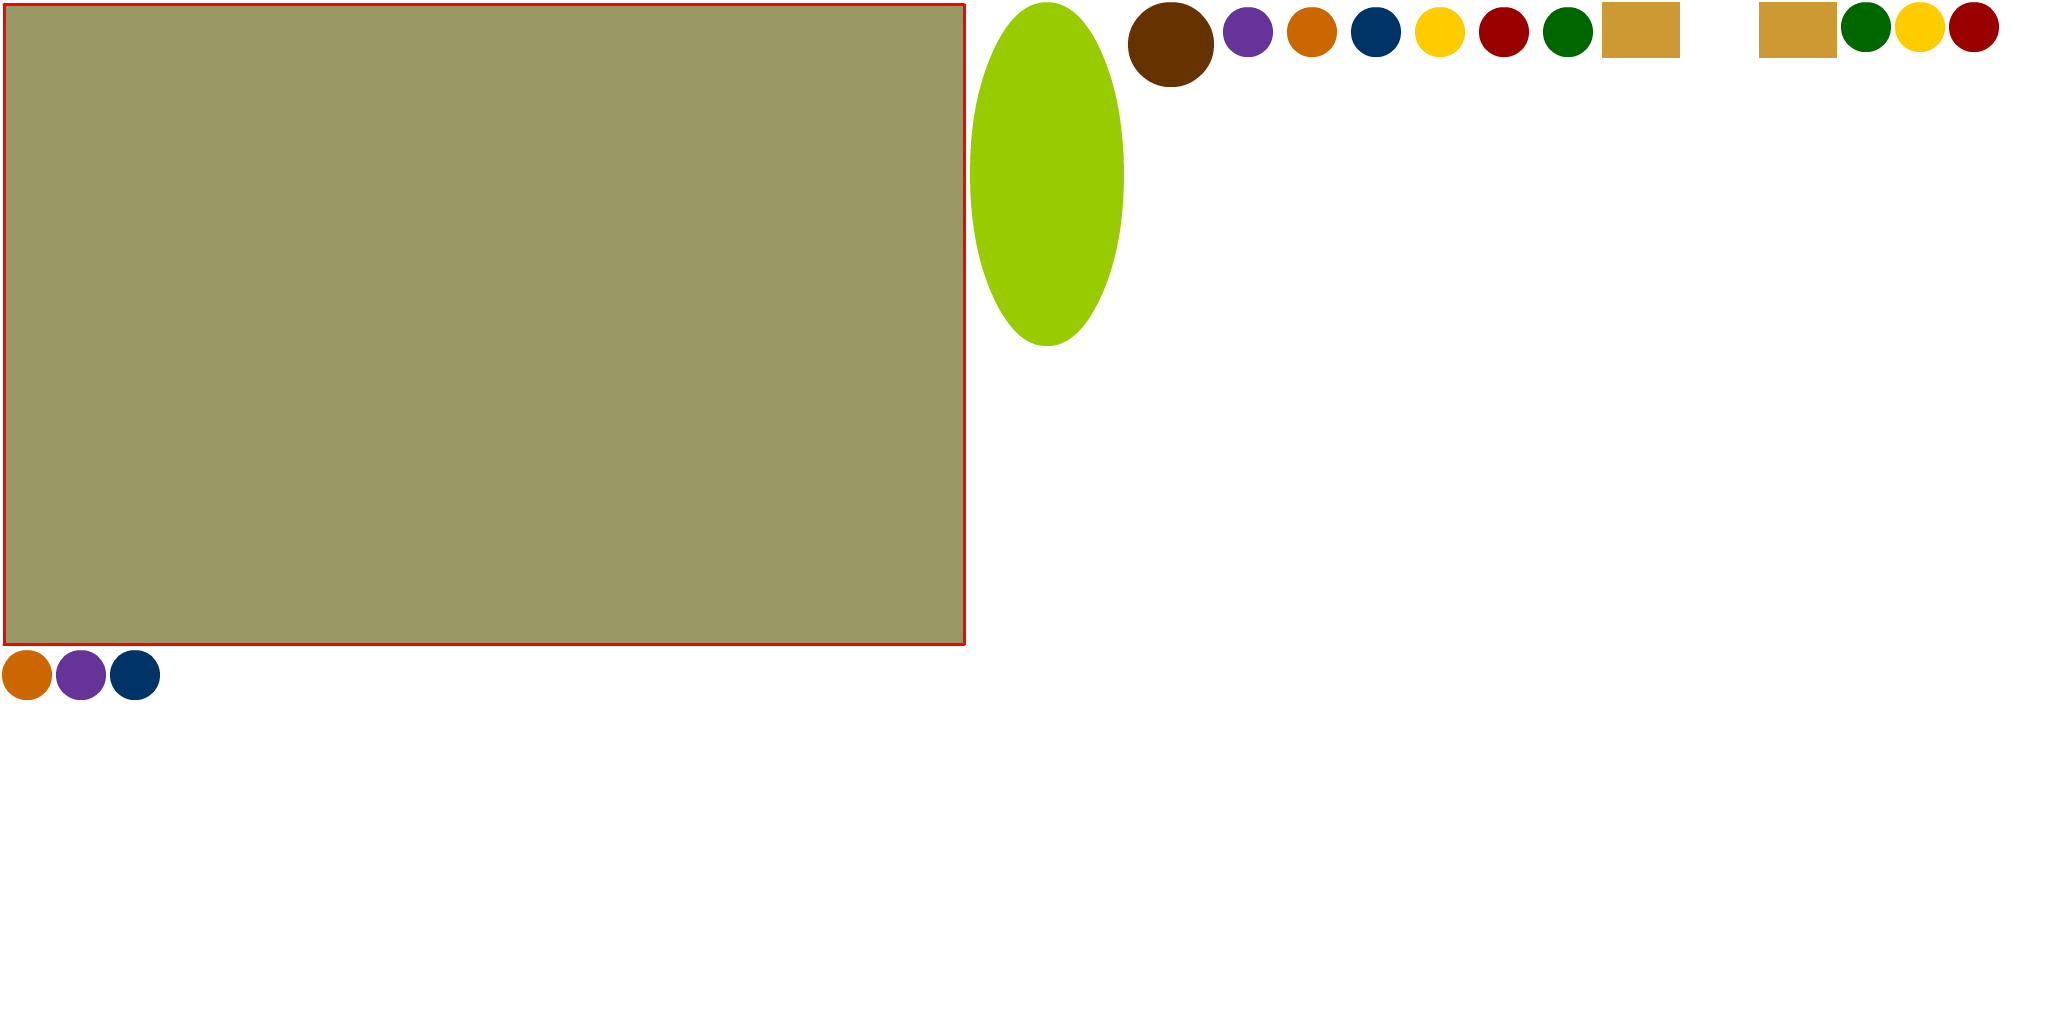
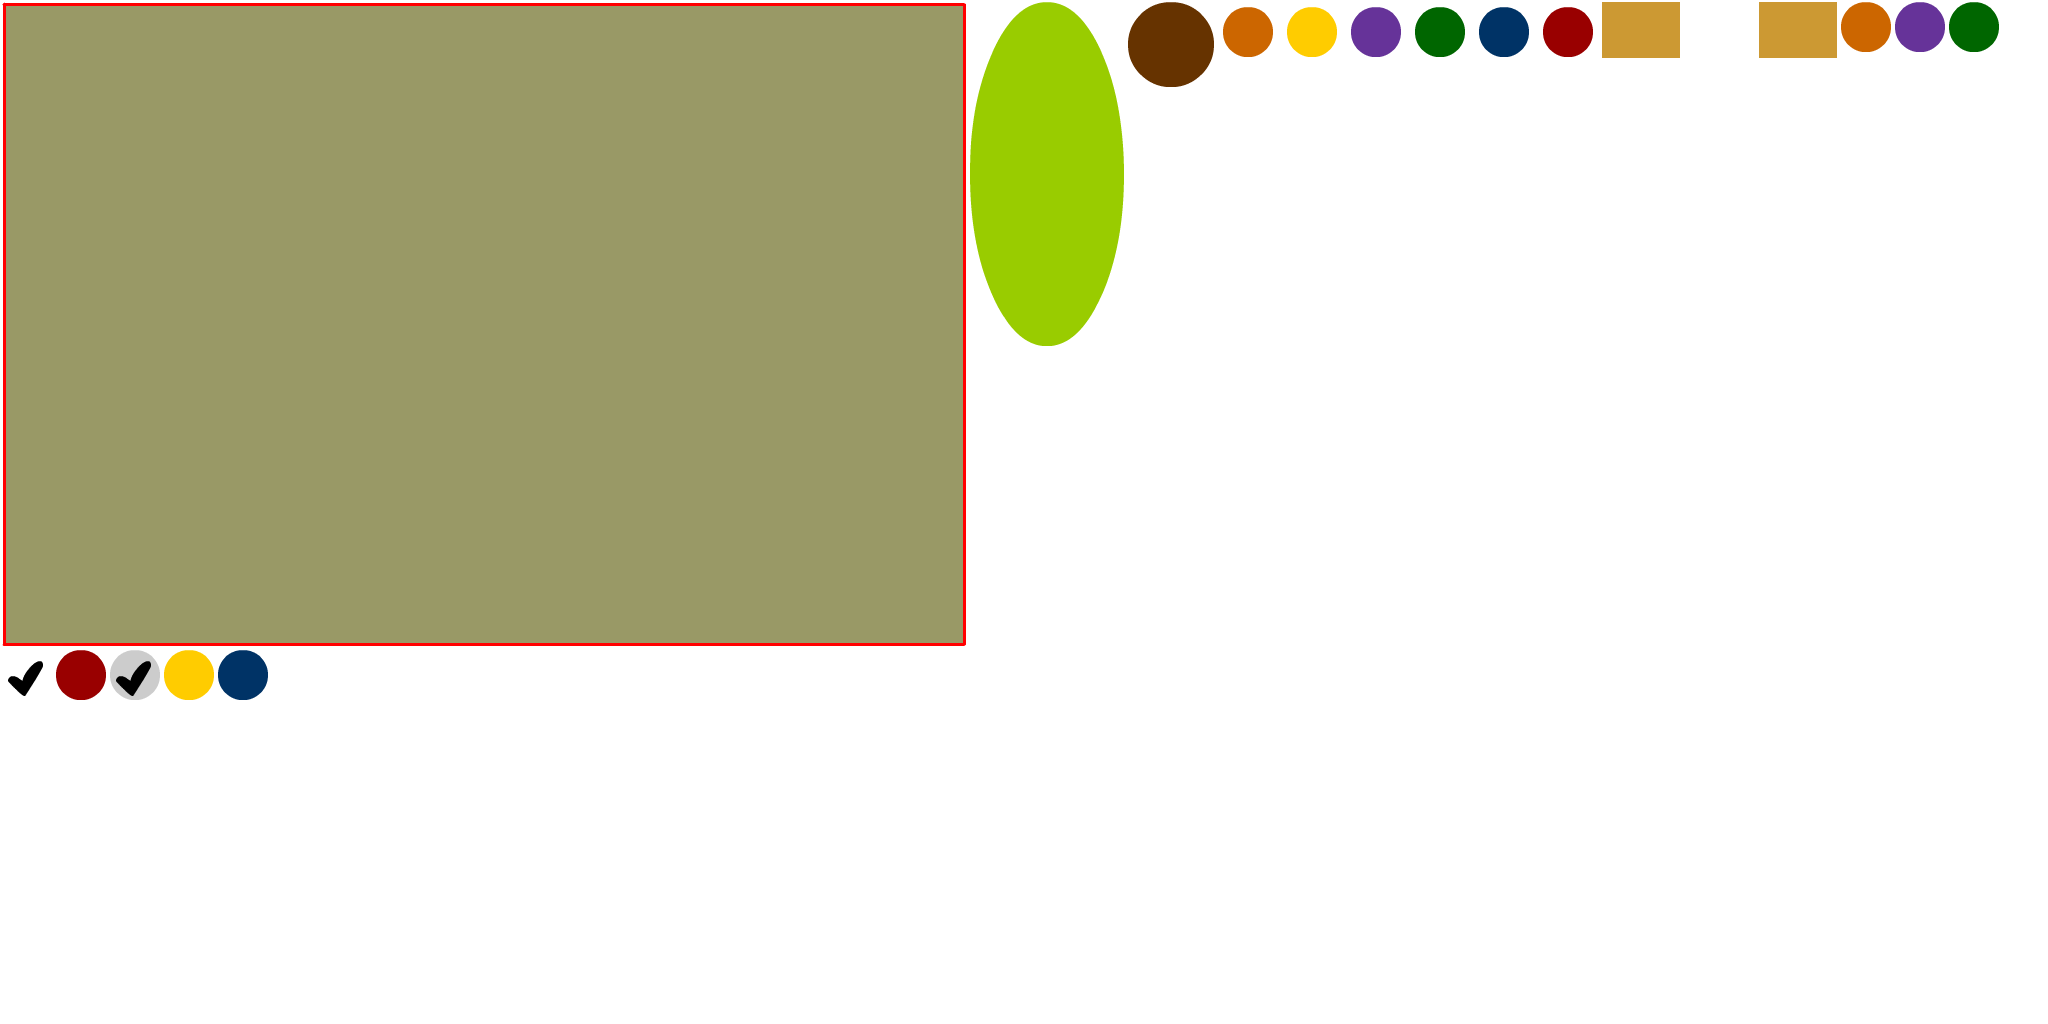
Data structure to hold spaceship parts and beginning parts colored in turn

Changed region(s): [[0.5938, 0.0, 0.7812, 0.0625], [0.0, 0.625, 0.1562, 0.6875], [0.875, 0.0, 1.0, 0.0625]]

diff --git a/AssemblyStage.js b/AssemblyStage.js
@@ -1,7 +1,7 @@
 var AssemblyStage = function(assetManager, root) {
 
-    // the current part being colored
-    var currentPart = null;
+    // event to be dispatched when this stage is complete
+    //var completeEvent = new createjs.Event("onChooseComplete", true);
 
     // size of brush for coloring spaceship
     var brushSize = 30;
@@ -11,9 +11,6 @@ var AssemblyStage = function(assetManager, root) {
     var curPoint = new createjs.Point();
     // the x,y position of the last touch on the screen
     var lastPoint = new createjs.Point();
-
-    // event to be dispatched when this stage is complete
-    //var completeEvent = new createjs.Event("onChooseComplete", true);
 
     // master container for this stage's screen
     var screen = new createjs.Container();
@@ -26,38 +23,44 @@ var AssemblyStage = function(assetManager, root) {
     // container to contain whole spaceship (coloring and all)
     var spaceShip = new createjs.Container();
 
-    // setup body spaceship part
-    // shape for coloring on - cache for fast rendering
-    var coloringCanvas = new createjs.Shape();
-    // sprite of spaceship part we color
-    var part1 = assetManager.getSprite("assets");
-    part1.gotoAndStop("body");
-    part1.x = 50;
-    part1.y = 30;
-
-    var part2 = assetManager.getSprite("assets");
-    part2.gotoAndStop("wings");
-    part2.x = 10;
-    part2.y = 200;
-
-    var part3 = assetManager.getSprite("assets");
-    part3.gotoAndStop("tail");
-    part3.x = 10;
-    part3.y = 300;
-
-
-    spaceShip.addChild(coloringCanvas);
-    spaceShip.addChild(part1);
-    //spaceShip.addChild(part2);
-    //spaceShip.addChild(part3);
-
+    // setup spaceship part with shape for coloring and sprite for coloring on
+    var part1 = {};
+    part1.colorCanvas = new createjs.Shape();
+    part1.sprite = assetManager.getSprite("assets");
+    part1.sprite.gotoAndStop("body");
+    part1.sprite.x = 50;
+    part1.sprite.y = 30;
     // setting composite so we can ONLY color current spaceship part
-    // http://community.createjs.com/discussions/easeljs/494-composite-operation-on-one-layer-knopckout-mask-as-example
-    part1.compositeOperation = "destination-atop";
+    part1.sprite.compositeOperation = "destination-atop";
+
+    var part2 = {};
+    part2.colorCanvas = new createjs.Shape();
+    part2.sprite = assetManager.getSprite("assets");
+    part2.sprite.gotoAndStop("wings");
+    part2.sprite.x = 10;
+    part2.sprite.y = 200;
+    //part2.sprite.compositeOperation = "destination-atop";
+
+    var part3 = {};
+    part3.colorCanvas = new createjs.Shape();
+    part3.sprite = assetManager.getSprite("assets");
+    part3.sprite.gotoAndStop("tail");
+    part3.sprite.x = 10;
+    part3.sprite.y = 300;
+    //part3.sprite.compositeOperation = "destination-atop";
+
+    spaceShip.addChild(part1.colorCanvas);
+    spaceShip.addChild(part1.sprite);
+    spaceShip.addChild(part2.colorCanvas);
+    spaceShip.addChild(part2.sprite);
+    spaceShip.addChild(part3.colorCanvas);
+    spaceShip.addChild(part3.sprite);
 
     // !!!!!!!!!!!!!!!!!!! change caching to only be the size of the spaceship
     // cache coloring container and master container
-    coloringCanvas.cache(0, 0, canvas.width / scaleRatio, canvas.height / scaleRatio);
+    part1.colorCanvas.cache(0, 0, canvas.width / scaleRatio, canvas.height / scaleRatio);
+    part2.colorCanvas.cache(0, 0, canvas.width / scaleRatio, canvas.height / scaleRatio);
+    part3.colorCanvas.cache(0, 0, canvas.width / scaleRatio, canvas.height / scaleRatio);
     spaceShip.cache(0, 0, canvas.width / scaleRatio, canvas.height / scaleRatio);
     // add to screen
     screen.addChild(spaceShip);
@@ -67,70 +70,77 @@ var AssemblyStage = function(assetManager, root) {
     screen.addChild(spriteContainer);
     */
 
+    // parts queue
+    var partsQueue = [part1, part2, part3];
+    // the current part being colored
+    var currentPart = part1;
+
 
 
 
     // setup paint selection buttons
     var btnRed = assetManager.getSprite("assets");
-    btnRed.gotoAndStop("redPaint");
-    btnRed.x = 300;
+    btnRed.gotoAndStop("btnRedDown");
+    btnRed.x = 400;
     btnRed.y = 50;
     btnRed.color = "#990000";
-    btnRed.upframe = btnRed.currentFrame;
-    btnRed.overframe = btnRed.currentFrame + 1;
-    btnRed.gotoAndStop(btnRed.overframe);
+    btnRed.label = "btnRed";
     btnRed.addEventListener("click", onChangeColor);
     screen.addChild(btnRed);
 
     var btnGreen = assetManager.getSprite("assets");
-    btnGreen.gotoAndStop("greenPaint");
-    btnGreen.x = 300;
+    btnGreen.gotoAndStop("btnGreenUp");
+    btnGreen.x = 400;
     btnGreen.y = 110;
     btnGreen.color = "#006600";
-    btnGreen.upframe = btnGreen.currentFrame;
-    btnGreen.overframe = btnGreen.currentFrame + 1;
+    btnGreen.label = "btnGreen";
     btnGreen.addEventListener("click", onChangeColor);
     screen.addChild(btnGreen);
 
     var btnYellow = assetManager.getSprite("assets");
-    btnYellow.gotoAndStop("yellowPaint");
-    btnYellow.x = 300;
+    btnYellow.gotoAndStop("btnYellowUp");
+    btnYellow.x = 400;
     btnYellow.y = 170;
     btnYellow.color = "#FFCC00";
-    btnYellow.upframe = btnYellow.currentFrame;
-    btnYellow.overframe = btnYellow.currentFrame + 1;
+    btnYellow.label = "btnYellow";
     btnYellow.addEventListener("click", onChangeColor);
     screen.addChild(btnYellow);
 
     var btnBlue = assetManager.getSprite("assets");
-    btnBlue.gotoAndStop("bluePaint");
-    btnBlue.x = 300;
+    btnBlue.gotoAndStop("btnBlueUp");
+    btnBlue.x = 400;
     btnBlue.y = 230;
     btnBlue.color = "#003366";
-    btnBlue.upframe = btnBlue.currentFrame;
-    btnBlue.overframe = btnBlue.currentFrame + 1;
+    btnBlue.label = "btnBlue";
     btnBlue.addEventListener("click", onChangeColor);
     screen.addChild(btnBlue);
 
     var btnPurple = assetManager.getSprite("assets");
-    btnPurple.gotoAndStop("purplePaint");
-    btnPurple.x = 300;
+    btnPurple.gotoAndStop("btnPurpleUp");
+    btnPurple.x = 400;
     btnPurple.y = 290;
     btnPurple.color = "#663399";
-    btnPurple.upframe = btnPurple.currentFrame;
-    btnPurple.overframe = btnPurple.currentFrame + 1;
+    btnPurple.label = "btnPurple";
     btnPurple.addEventListener("click", onChangeColor);
     screen.addChild(btnPurple);
 
     var btnOrange = assetManager.getSprite("assets");
-    btnOrange.gotoAndStop("orangePaint");
-    btnOrange.x = 300;
+    btnOrange.gotoAndStop("btnOrangeUp");
+    btnOrange.x = 400;
     btnOrange.y = 350;
     btnOrange.color = "#CC6600";
-    btnOrange.upframe = btnOrange.currentFrame;
-    btnOrange.overframe = btnOrange.currentFrame + 1;
+    btnOrange.label = "btnOrange";
     btnOrange.addEventListener("click", onChangeColor);
     screen.addChild(btnOrange);
+
+    // add ok button
+    var btnFinished = assetManager.getSprite("assets");
+    btnFinished.gotoAndStop("btnOkUp");
+    btnFinished.x = 400;
+    btnFinished.y = 420;
+    btnFinished.addEventListener("mousedown", onFinished);
+    btnFinished.addEventListener("click", onFinished);
+    screen.addChild(btnFinished);
 
 
 
@@ -168,18 +178,18 @@ var AssemblyStage = function(assetManager, root) {
         */
 
         // draw line onto colorLayer
-        coloringCanvas.graphics.setStrokeStyle(brushSize, "round", "round");
-        coloringCanvas.graphics.beginStroke(brushColor);
-        coloringCanvas.graphics.moveTo(lastPoint.x, lastPoint.y);
-        coloringCanvas.graphics.lineTo(curPoint.x, curPoint.y);
+        currentPart.colorCanvas.graphics.setStrokeStyle(brushSize, "round", "round");
+        currentPart.colorCanvas.graphics.beginStroke(brushColor);
+        currentPart.colorCanvas.graphics.moveTo(lastPoint.x, lastPoint.y);
+        currentPart.colorCanvas.graphics.lineTo(curPoint.x, curPoint.y);
         // store current X,Y
         lastPoint.x = curPoint.x;
         lastPoint.y = curPoint.y;
 
         // draw the new vector onto the existing cache, compositing it with the "source-overlay" composite operation:
-		coloringCanvas.updateCache("source-overlay");
+		currentPart.colorCanvas.updateCache("source-overlay");
         // because the vector paint drop has been drawn to the cache clear it out
-		coloringCanvas.graphics.clear();
+		currentPart.colorCanvas.graphics.clear();
         // update cache whole spaceShip container so that composite (can only color on spaceship part) works
         spaceShip.updateCache("source-overlay");
     }
@@ -193,13 +203,13 @@ var AssemblyStage = function(assetManager, root) {
         // set brush color and adjust button
         brushColor = e.target.color;
         // reset all buttons and set target
-        btnRed.gotoAndStop(btnRed.upframe);
-        btnGreen.gotoAndStop(btnGreen.upframe);
-        btnYellow.gotoAndStop(btnYellow.upframe);
-        btnBlue.gotoAndStop(btnBlue.upframe);
-        btnPurple.gotoAndStop(btnPurple.upframe);
-        btnOrange.gotoAndStop(btnOrange.upframe);
-        e.target.gotoAndStop(e.target.overframe);
+        btnRed.gotoAndStop(btnRed.label + "Up");
+        btnGreen.gotoAndStop(btnGreen.label + "Up");
+        btnYellow.gotoAndStop(btnYellow.label + "Up");
+        btnBlue.gotoAndStop(btnBlue.label + "Up");
+        btnPurple.gotoAndStop(btnPurple.label + "Up");
+        btnOrange.gotoAndStop(btnOrange.label + "Up");
+        e.target.gotoAndStop(e.target.label + "Down");
     }
 
     function onStartColoring(e) {
@@ -219,5 +229,24 @@ var AssemblyStage = function(assetManager, root) {
     function onColoring(e) {
         paintMe(e);
     }
+
+    function onFinished(e) {
+        console.log("e type: " + e.type);
+
+        if (e.type === "mousedown") {
+            btnFinished.gotoAndStop("btnOkDown");
+        } else {
+            btnFinished.gotoAndStop("btnOkUp");
+
+            //currentPart.sprite.compositeOperation = "source-over";
+            currentPart = part2;
+            currentPart.sprite.compositeOperation = "destination-atop";
+
+
+
+
+        }
+    }
+
 
 };

diff --git a/Manifest.js b/Manifest.js
@@ -10,31 +10,41 @@ var manifest = [
     [970, 2, 154, 344, 0, 0, 0],
     [1602, 2, 235, 56, 0, 0, 0],
     [1128, 2, 86, 85, 0, 0, 0],
-    [1949, 2, 50, 50, 0, -5, -5],
-    [1474, 2, 60, 60, 0, 0, 0],
-    [1841, 2, 50, 50, 0, -5, -5],
-    [1538, 2, 60, 60, 0, 0, 0],
-    [1895, 2, 50, 50, 0, -5, -5],
-    [1410, 2, 60, 60, 0, 0, 0],
-    [110, 650, 50, 50, 0, -5, -5],
-    [1346, 2, 60, 60, 0, 0, 0],
     [56, 650, 50, 50, 0, -5, -5],
-    [1218, 2, 60, 60, 0, 0, 0],
-    [2, 650, 50, 50, 0, -5, -5],
+    [1538, 2, 60, 60, 0, 0, 0],
+    [1949, 2, 50, 50, 0, -5, -5],
+    [1410, 2, 60, 60, 0, 0, 0],
+    [164, 650, 50, 50, 0, -5, -5],
     [1282, 2, 60, 60, 0, 0, 0],
-    [2, 2, 964, 644, 0, 2, 2]
+    [218, 650, 50, 50, 0, -5, -5],
+    [1474, 2, 60, 60, 0, 0, 0],
+    [1895, 2, 50, 50, 0, -5, -5],
+    [1346, 2, 60, 60, 0, 0, 0],
+    [1841, 2, 50, 50, 0, -5, -5],
+    [1218, 2, 60, 60, 0, 0, 0],
+    [2, 2, 964, 644, 0, 2, 2],
+    [2, 650, 50, 50, 0, -5, -5],
+    [110, 650, 50, 50, 0, -5, -5]
 ],
 "animations":{
-    "redPaint": {"speed": 1, "frames": [3, 4]},
-    "bluePaint": {"speed": 1, "frames": [9, 10]},
-    "tail": {"speed": 1, "frames": [2]},
-    "yellowPaint": {"speed": 1, "frames": [7, 8]},
-    "purplePaint": {"speed": 1, "frames": [11, 12]},
-    "greenPaint": {"speed": 1, "frames": [5, 6]},
-    "assembly": {"speed": 1, "frames": [15]},
-    "orangePaint": {"speed": 1, "frames": [13, 14]},
-    "wings": {"speed": 1, "frames": [1]},
-    "body": {"speed": 1, "frames": [0]}
+    "btnBlueUp": {"frames": [9], "speed": 1},
+    "btnRedDown": {"frames": [4], "speed": 1},
+    "wings": {"frames": [1], "speed": 1},
+    "btnPurpleUp": {"frames": [11], "speed": 1},
+    "btnGreenDown": {"frames": [6], "speed": 1},
+    "btnOrangeUp": {"frames": [13], "speed": 1},
+    "btnYellowDown": {"frames": [8], "speed": 1},
+    "btnBlueDown": {"frames": [10], "speed": 1},
+    "btnPurpleDown": {"frames": [12], "speed": 1},
+    "btnYellowUp": {"frames": [7], "speed": 1},
+    "btnGreenUp": {"frames": [5], "speed": 1},
+    "btnOrangeDown": {"frames": [14], "speed": 1},
+    "assembly": {"frames": [15], "speed": 1},
+    "btnOkDown": {"frames": [17], "speed": 1},
+    "btnOkUp": {"frames": [16], "speed": 1},
+    "fuselage": {"frames": [0], "speed": 1},
+    "tail": {"frames": [2], "speed": 1},
+    "btnRedUp": {"frames": [3], "speed": 1}
 }
 }
 
